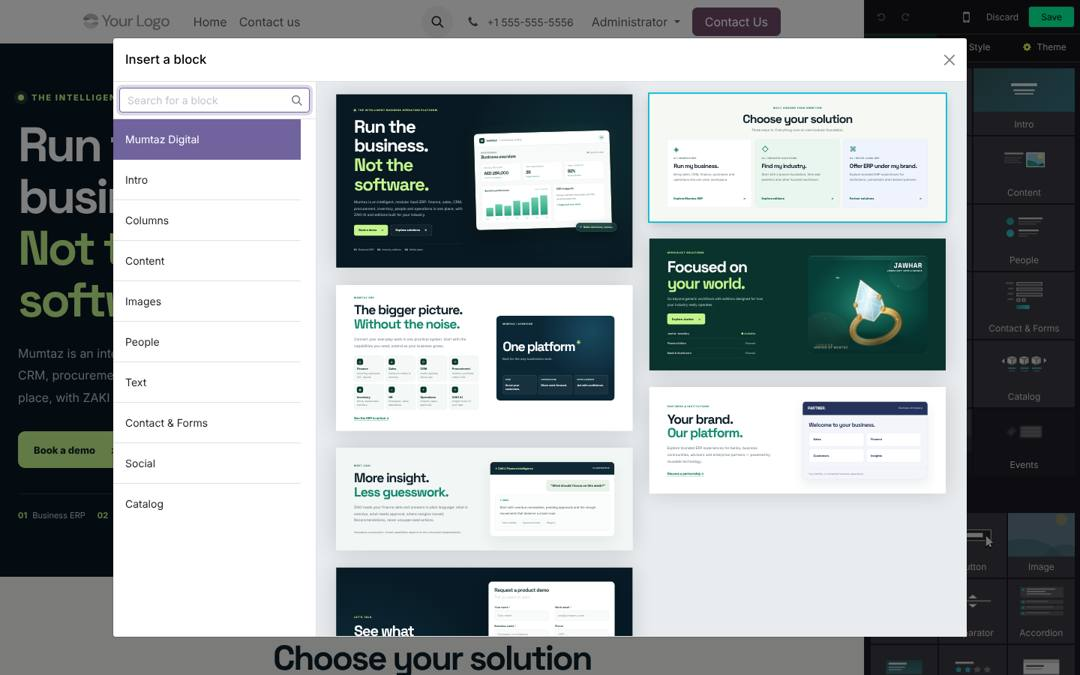
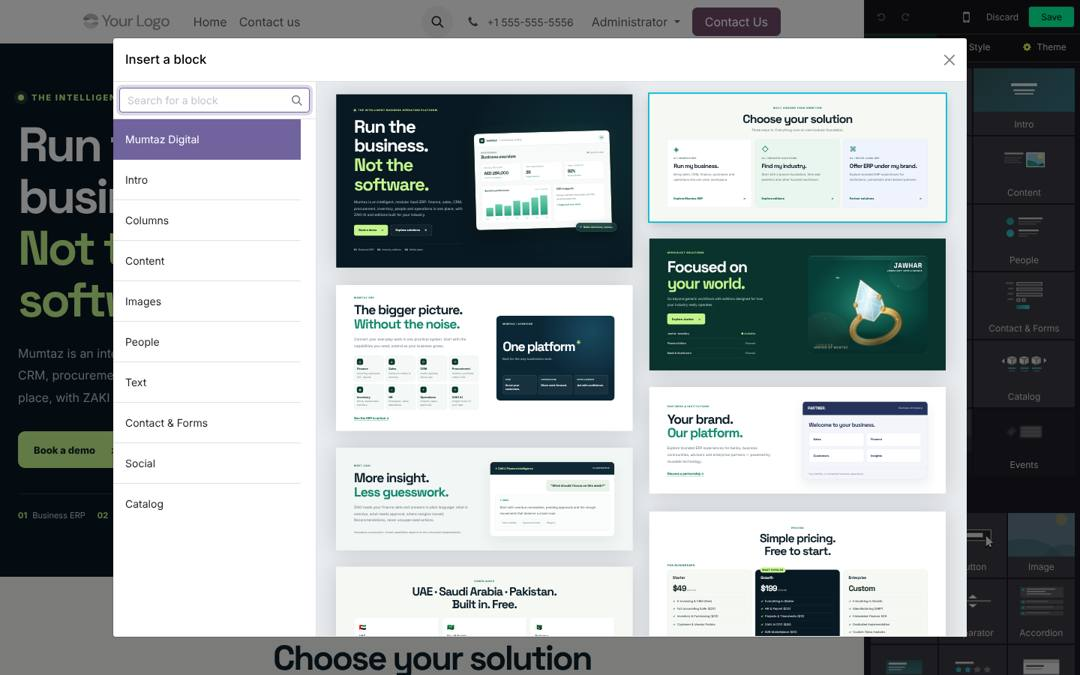
Mumtaz website: localisation, pricing and FAQ blocks from the previous site
Owner request: carry the previous static mumtaz.digital's pricing, FAQ and
localisation content into the Odoo site, verbatim. Three new native Website
Builder blocks (Localisation & Compliance, Pricing Plans, FAQ) join the
Mumtaz Digital group, with their thumbnails, scoped styles and a Bootstrap
accordion for the FAQ. The preview page is regenerated from the blocks in
the order hero, paths, ERP, editions, localisation, ZAKI, partners, pricing,
FAQ, form.

The preview page is noupdate, so an upgrade alone does not change a page
already in a database: scripts/mumtaz_site_add_blocks.py inserts the three
blocks into an existing page at the right positions and is a no-op when
they are present. Rehearsed on a sandbox database that carried the
seven-block page: upgraded, inserted, re-run, rendered with all ten
sections and the form intact. The first version parsed QWeb's HTML output
as XML and failed on an ampersand; it now parses it as HTML.

Also: deploy/jewel-staging/verify_site.sh compares pages with the
deploy-time stylesheet stamp normalised away, so the Jewel deploy no
longer reports the home page as STALE after the cache-busting change.

Verified: fresh install with 7 tests, 0 failures (ten blocks registered,
page renders them, FAQ markup present); headless render at 1440 and 390 px
with no overflow; FAQ accordion opens; the builder dialog lists all ten
blocks. Prices and "free forever" statements are the owner's published
[…]

Changed region(s): [[0.3056, 0.7778, 0.825, 0.9644]]

diff --git a/addons/mumtaz_website_builder/static/src/css/mumtaz_builder.css b/addons/mumtaz_website_builder/static/src/css/mumtaz_builder.css
@@ -42,3 +42,38 @@
 .o_mumtaz_site .mumtaz_form_success{background:#e6f7ee;border:1px solid #bfe7d0;color:#0b5a3d;border-radius:10px;padding:14px 16px;font-weight:700}
 .o_mumtaz_site .s_website_form_result .alert{border-radius:10px;font-size:13px}
 .o_mumtaz_site .s_website_form_submit{display:flex;flex-wrap:wrap;align-items:center;gap:12px}.o_mumtaz_site .s_website_form_submit .s_website_form_label{display:none}.o_mumtaz_site #s_website_form_result{display:block;width:100%}
+
+/* --- localisation, pricing, FAQ (content carried from the previous mumtaz.digital, 21 Nov 2026) --- */
+:is(.o_mumtaz_site .s_mumtaz_localisation, .o_mumtaz_site.s_mumtaz_localisation){padding:56px 0;background:#f6f8f4}
+.o_mumtaz_site .mumtaz_loc_grid{display:grid;grid-template-columns:repeat(3,1fr);gap:14px;margin-top:26px}
+.o_mumtaz_site .mumtaz_loc_card{background:#fff;border:1px solid #dce6df;border-radius:14px;padding:22px 22px 20px}
+.o_mumtaz_site .mumtaz_loc_flag{font-size:26px;display:block;margin-bottom:10px}
+.o_mumtaz_site .mumtaz_loc_card h3{font-size:17px;margin-bottom:6px}
+.o_mumtaz_site .mumtaz_loc_card p{font-size:13.5px;line-height:1.7;color:#5f7470}
+.o_mumtaz_site .mumtaz_loc_note{text-align:center;margin-top:22px;font-size:13px;color:#5f7470}
+:is(.o_mumtaz_site .s_mumtaz_pricing, .o_mumtaz_site.s_mumtaz_pricing){padding:64px 0;background:#fff}
+.o_mumtaz_site .mumtaz_plan_group{font-size:12px;letter-spacing:.14em;text-transform:uppercase;color:#197862;font-weight:800;margin:30px 0 12px;font-family:'Inter',sans-serif}
+.o_mumtaz_site .mumtaz_plan_grid{display:grid;grid-template-columns:repeat(3,1fr);gap:14px}
+.o_mumtaz_site .mumtaz_plan{position:relative;background:#f6f8f4;border:1px solid #dce6df;border-radius:16px;padding:24px;display:flex;flex-direction:column;gap:12px}
+.o_mumtaz_site .mumtaz_plan.is_popular{background:var(--mm-navy);color:#fff;border-color:#1f4a48}
+.o_mumtaz_site .mumtaz_plan.is_popular h3,.o_mumtaz_site .mumtaz_plan.is_popular .mumtaz_plan_price b{color:#fff}
+.o_mumtaz_site .mumtaz_plan_badge{position:absolute;top:-11px;left:22px;background:var(--mm-lime);color:#10261d;font-size:10px;font-weight:800;letter-spacing:.12em;text-transform:uppercase;padding:4px 10px;border-radius:100px}
+.o_mumtaz_site .mumtaz_plan h3{font-size:18px}
+.o_mumtaz_site .mumtaz_plan_price b{font-family:'Space Grotesk',sans-serif;font-size:36px;letter-spacing:-.06em;color:#10261d}
+.o_mumtaz_site .mumtaz_plan_price small{font-size:12px;color:#7a8f89;margin-left:4px}
+.o_mumtaz_site .mumtaz_plan.is_popular .mumtaz_plan_price small{color:#b7c9c9}
+.o_mumtaz_site .mumtaz_plan ul{list-style:none;margin:0;padding:0;font-size:13.5px;line-height:1.6;flex:1}
+.o_mumtaz_site .mumtaz_plan li{padding:6px 0 6px 20px;position:relative;border-top:1px solid #e3ebe7}
+.o_mumtaz_site .mumtaz_plan.is_popular li{border-top-color:#ffffff1f}
+.o_mumtaz_site .mumtaz_plan li::before{content:"✓";position:absolute;left:0;color:#168d65;font-weight:800}
+.o_mumtaz_site .mumtaz_plan.is_popular li::before{color:var(--mm-lime)}
+.o_mumtaz_site .mumtaz_plan .mumtaz_button_ghost{color:#10261d;border-color:#cdd9d3;background:#fff}
+.o_mumtaz_site .mumtaz_plan .mumtaz_button{justify-content:center}
+:is(.o_mumtaz_site .s_mumtaz_faq, .o_mumtaz_site.s_mumtaz_faq){padding:64px 0;background:#f6f8f4}
+.o_mumtaz_site .mumtaz_faq_wrap{max-width:860px}
+.o_mumtaz_site .mumtaz_faq_acc{margin-top:26px}
+.o_mumtaz_site .mumtaz_faq_acc .accordion-item{border:1px solid #dce6df;border-radius:12px!important;margin-bottom:10px;background:#fff;overflow:hidden}
+.o_mumtaz_site .mumtaz_faq_acc .accordion-button{font-weight:700;font-size:15px;color:#10261d;background:#fff;box-shadow:none;padding:16px 20px;font-family:'Inter',sans-serif}
+.o_mumtaz_site .mumtaz_faq_acc .accordion-button:not(.collapsed){background:#eef5f1;color:#0b332e}
+.o_mumtaz_site .mumtaz_faq_acc .accordion-body{font-size:14px;line-height:1.75;color:#5f7470;padding:4px 20px 18px}
+@media(max-width:1080px){.o_mumtaz_site .mumtaz_plan_grid{grid-template-columns:1fr}.o_mumtaz_site .mumtaz_loc_grid{grid-template-columns:1fr}}

diff --git a/addons/mumtaz_website_builder/tests/test_website_builder.py b/addons/mumtaz_website_builder/tests/test_website_builder.py
@@ -10,8 +10,8 @@ from odoo.tests import HttpCase, tagged
 from odoo.addons.http_routing.tests.common import MockRequest
 
 URL = '/mumtaz-native-preview'
-SNIPPETS = ['s_mumtaz_hero', 's_mumtaz_paths', 's_mumtaz_platform', 's_mumtaz_editions',
-            's_mumtaz_ai', 's_mumtaz_partners', 's_mumtaz_contact']
+SNIPPETS = ['s_mumtaz_hero', 's_mumtaz_paths', 's_mumtaz_platform', 's_mumtaz_editions', 's_mumtaz_localisation',
+            's_mumtaz_ai', 's_mumtaz_partners', 's_mumtaz_pricing', 's_mumtaz_faq', 's_mumtaz_contact']
 
 
 @tagged('post_install', '-at_install')
@@ -27,7 +27,7 @@ class TestMumtazWebsiteBuilder(HttpCase):
         r = self.url_open(URL)
         self.assertEqual(r.status_code, 404, 'an unpublished page must stay invisible to visitors')
 
-    def test_admin_sees_seven_editable_sections_with_the_site_scope(self):
+    def test_admin_sees_ten_editable_sections_with_the_site_scope(self):
         self.authenticate('admin', 'admin')
         r = self.url_open(URL)
         self.assertEqual(r.status_code, 200)
@@ -36,6 +36,9 @@ class TestMumtazWebsiteBuilder(HttpCase):
             self.assertIn('data-snippet="%s"' % key, html)
         self.assertIn('id="wrap" class="oe_structure o_mumtaz_site"', html)
         self.assertIn('Run the business.', html)
+        self.assertIn('Simple pricing.', html)
+        self.assertIn('data-bs-toggle="collapse"', html)
+        self.assertIn('ZATCA Phase 2', html)
         self.assertIn('action="/website/form/"', html)
         for name in ('contact_name', 'email_from', 'partner_name', 'phone', 'Interested solution', 'Privacy consent'):
             self.assertIn('name="%s"' % name, html)

diff --git a/scripts/mumtaz_site_add_blocks.py b/scripts/mumtaz_site_add_blocks.py
@@ -1,0 +1,41 @@
+# Run inside `odoo shell` (env is provided). Adds the localisation, pricing and
+# FAQ blocks to an existing Mumtaz preview page: the page record is noupdate,
+# so a module upgrade alone does not change it. Blocks already present are
+# left untouched; nothing else on the page is modified.
+from lxml import etree
+from lxml import html as lhtml
+
+page = env.ref('mumtaz_website_builder.page_mumtaz_preview')
+view = page.view_id
+root = etree.fromstring(view.arch_db.encode())
+wrap = root.xpath("//*[@id='wrap']")[0]
+have = {s.get('data-snippet') for s in wrap.xpath(".//section[@data-snippet]")}
+
+
+def block(key):
+    # QWeb renders HTML (bare ampersands and the like): parse it as HTML, then
+    # the element joins the XML arch and is re-serialised safely by etree
+    html = env['ir.qweb']._render('mumtaz_website_builder.%s' % key)
+    return lhtml.fragment_fromstring(str(html).strip())
+
+
+def insert(key, before=None, after=None):
+    if key in have:
+        return
+    el = block(key)
+    ref = wrap.xpath(".//section[@data-snippet='%s']" % (before or after))
+    if not ref:
+        wrap.append(el)
+    elif before:
+        ref[0].addprevious(el)
+    else:
+        ref[0].addnext(el)
+    have.add(key)
+
+
+insert('s_mumtaz_localisation', after='s_mumtaz_editions')
+insert('s_mumtaz_pricing', before='s_mumtaz_contact')
+insert('s_mumtaz_faq', before='s_mumtaz_contact')
+view.write({'arch_db': etree.tostring(root, encoding='unicode')})
+env.cr.commit()
+print('sections now:', [s.get('data-snippet') for s in wrap.xpath(".//section[@data-snippet]")])

diff --git a/docs/mumtaz-website/README.md b/docs/mumtaz-website/README.md
@@ -6,9 +6,13 @@ test record, the list of issues corrected and the production checklist.
 
 ## 1. What the module is
 
-- Seven Website Builder blocks under **Blocks → Mumtaz Digital**: Hero, Three
-  Visitor Paths, ERP Highlights (eight module tiles), Industry Editions, ZAKI
-  AI Showcase, White-Label Partners, Native CRM Demo Form.
+- Ten Website Builder blocks under **Blocks → Mumtaz Digital**: Hero, Three
+  Visitor Paths, ERP Highlights (eight module tiles), Industry Editions,
+  Localisation & Compliance, ZAKI AI Showcase, White-Label Partners, Pricing
+  Plans, FAQ, Native CRM Demo Form. The localisation, pricing and FAQ copy was
+  carried verbatim from the previous static mumtaz.digital on 21 Nov 2026 at
+  the owner's request; the prices and the "free forever" statements are the
+  owner's published claims, not something verified here.
 - One **unpublished** page at `/mumtaz-native-preview`, assembled from those
   blocks inside the standard `website.layout`, so the site's own header,
   footer, menus, SEO fields, translations and the Edit button apply.
@@ -50,6 +54,7 @@ test record, the list of issues corrected and the production checklist.
 | 11 | Form had no `#s_website_form_result` element | Odoo's form script crashed with an error dialog the moment it tried to show any status (so a server refusal could never be displayed) | Native submit-row markup restored; covered by test |
 | 12 | Server accepted posts with no contact, e-mail or consent | Odoo only enforces model-required fields server side; a bot posting directly would create empty leads | Scoped controller override for this one form (by its fixed subject): required fields, e-mail format, phone length, honeypot, size cap; message returned to the form |
 | 14 | Same `css2` import defect found in `mumtaz_organization` (frontend bundle) while running the whole-platform install | Any database with that module installed served an unparsable frontend stylesheet, so the website rendered unstyled | Same one-line URL fix in that module; the stylesheet test now checks that every hoisted `@import` in the bundle is a complete rule, whichever module contributed it |
+| 15 | Previous site content missing (pricing, FAQ, localisation) | Visitors lost pages they could find on the old site | Three native blocks with the previous site's copy verbatim; page order hero → paths → ERP → editions → localisation → ZAKI → partners → pricing → FAQ → form |
 | 13 | (introduced and removed during this work) QWeb `t-att` inside the page wrap | Odoo could not brand `#wrap` as one editable structure; every block group showed "cannot be dropped on this page" | Markup kept literal; the chosen solution travels as text and the controller maps it to the CRM tag; a test forbids directives inside the wrap |
 
 ## 4. Test results (fresh Odoo 19 database, `website` + `website_crm` + this module, 21 Nov 2026)
@@ -91,6 +96,19 @@ page record is `noupdate`, so a page already edited in the Website Builder
 keeps its content; to receive the new page layout on an existing database,
 delete the preview page (Website → Pages) before upgrading, or rebuild it from
 the blocks in the editor.
+
+## 5b. Adding blocks to a page that already exists (production)
+
+The preview page is `noupdate`, so an upgrade does not add new blocks to a
+page already in the database. Either drag them in from Blocks → Mumtaz
+Digital in the editor, or insert them in one go after
+`-u mumtaz_website_builder`, with the script in the repository (Localisation
+after Industry Editions, Pricing and FAQ before the demo form; blocks already
+on the page are left alone):
+
+```bash
+sudo -u odoo odoo shell -c /etc/odoo2.conf -d Mumtaz_ERP --no-http < /opt/mumtaz-main/scripts/mumtaz_site_add_blocks.py
+```
 
 ## 6. Production deployment checklist (each step needs a named approval)
 
